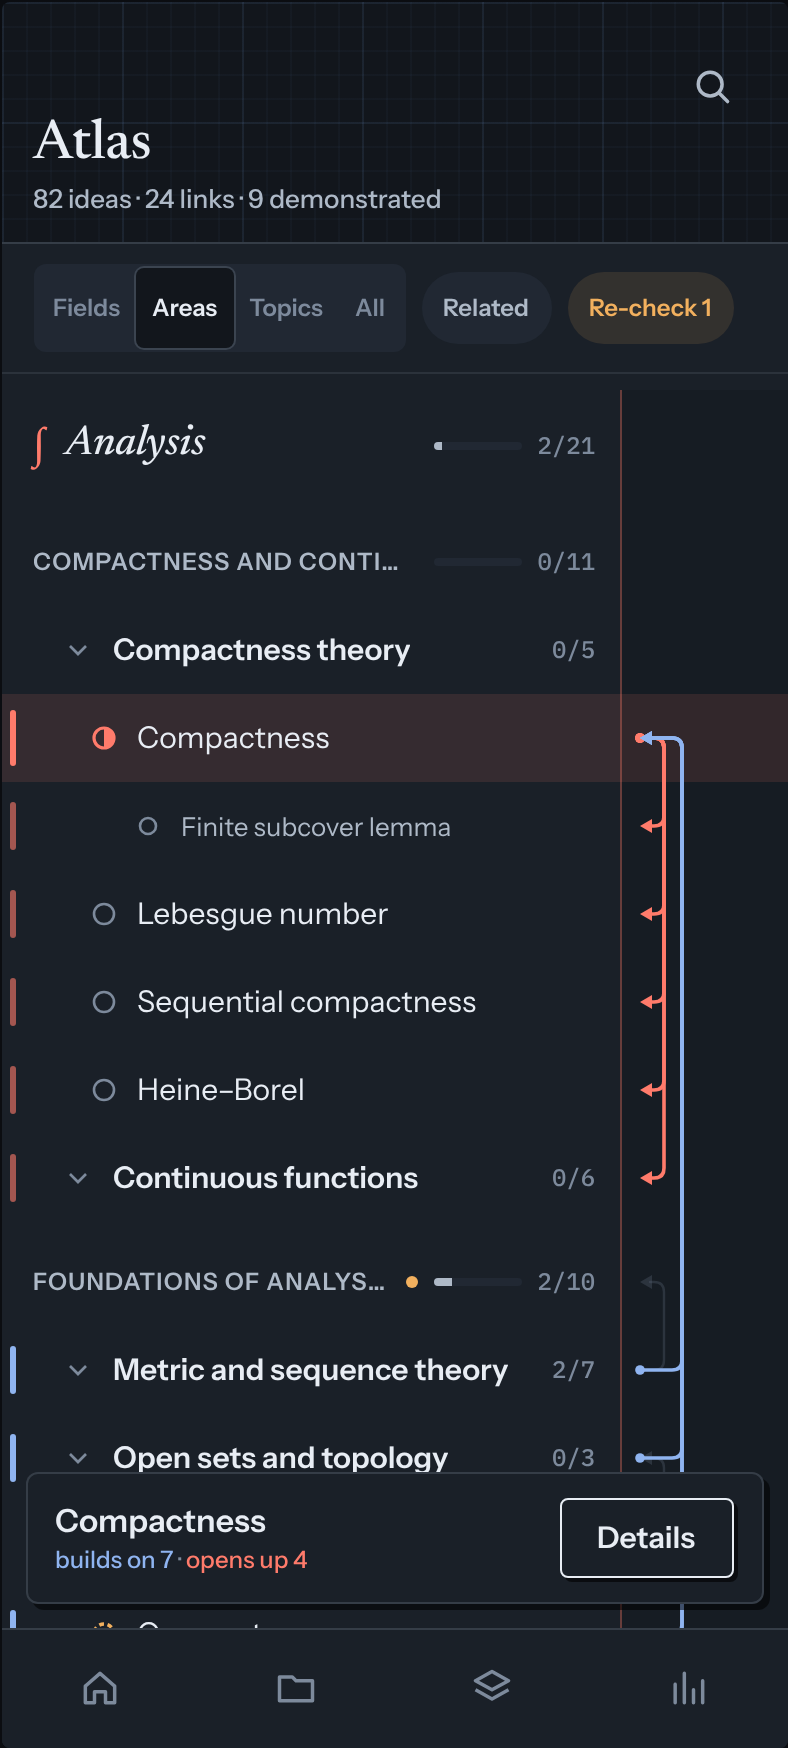
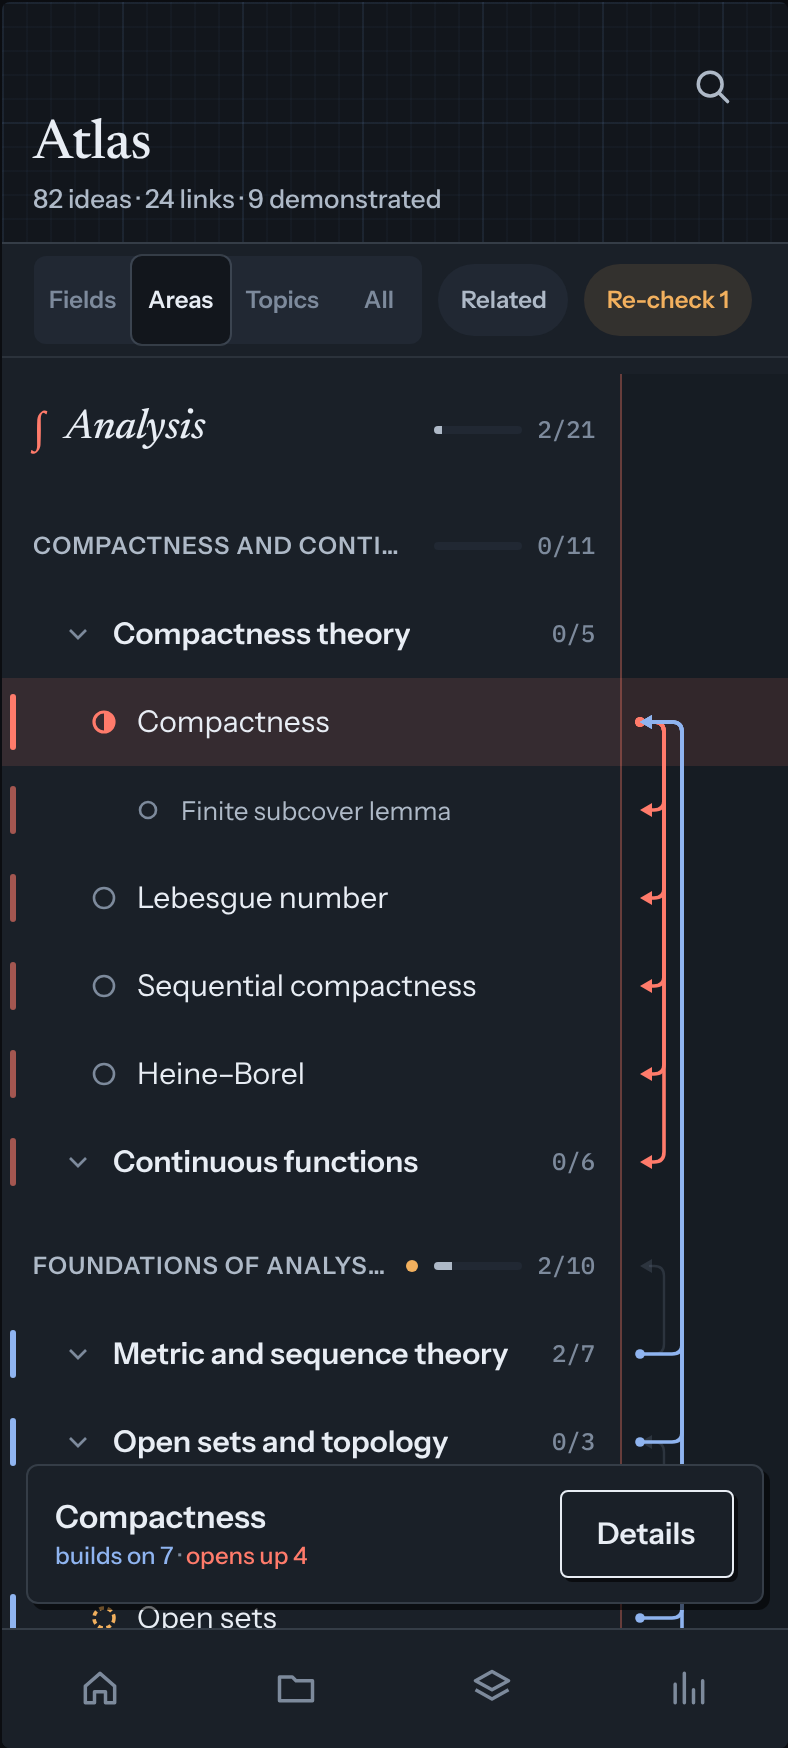
DOCS v4 look: unambiguous Mini Route geometry and 44px mockup controls
- Mini Route is one continuous 6px-high bar (one mark); stage segments
  >= 8px wide, 2px seams are not marks; far future stages merge; the
  current notch is the only other mark. QA-4 measures [data-mini-route]
  as one bar.
- Mockup: Details button 44px; toolbar segments 44px; pills drawn inside
  44px hit wrappers. Measured: min hit 44px, min segment 17.9px,
  min Route edge gap 8px, min text 12px, min Atlas row 44px.

Claude-Session: https://claude.ai/code/session_0172Sf9xwUy1G35PpYwED8Nj

diff --git a/docs/design/v4/mockups.html b/docs/design/v4/mockups.html
@@ -68,9 +68,10 @@ body{background:#0B0D11;font-family:var(--sans);color:var(--ink);padding:24px;di
 .rule{height:1px;background:var(--hair);margin:2px 0}
 .row{display:flex;align-items:center;gap:12px;padding:12px 0;border-bottom:1px solid var(--hair)}
 .row:last-child{border-bottom:none}
-.minibar{flex:1;display:flex;gap:2px;height:6px;position:relative}
-.minibar i{display:block;height:6px;border-radius:3px;background:var(--paper-2);overflow:hidden;position:relative}
-.minibar i b{position:absolute;inset:0 auto 0 0;background:var(--ink-2);border-radius:3px}
+.minibar{flex:1;display:flex;height:6px;position:relative;border-radius:3px;background:var(--paper-2)}
+.minibar i{display:block;height:6px;min-width:8px;overflow:hidden;position:relative;border-right:2px solid var(--paper)}
+.minibar i:first-child{border-radius:3px 0 0 3px}.minibar i:last-of-type{border-right:none;border-radius:0 3px 3px 0}
+.minibar i b{position:absolute;inset:0 auto 0 0;background:var(--ink-2)}
 .minibar .notch{position:absolute;top:-3px;width:2px;height:12px;background:var(--accent);border-radius:1px}
 .review{display:flex;align-items:center;gap:14px;padding:14px 16px}
 .big{font:500 30px/1 var(--display)}
@@ -83,10 +84,11 @@ body{background:#0B0D11;font-family:var(--sans);color:var(--ink);padding:24px;di
 .tab.on{color:var(--accent)}
 /* Atlas */
 .atlas{margin:0 -16px;background:var(--paper);border-top:1px solid var(--edge);position:relative}
-.tool{display:flex;gap:8px;align-items:center;padding:10px 16px;border-bottom:1px solid var(--hair)}
-.seg{display:flex;background:var(--paper-2);border-radius:6px;padding:2px}
-.seg span{font:600 12px var(--sans);color:var(--ink-3);padding:0 8px;height:40px;line-height:40px;border-radius:4px}
+.tool{display:flex;gap:8px;align-items:center;padding:6px 16px;border-bottom:1px solid var(--hair)}
+.seg{display:flex;background:var(--paper-2);border-radius:6px;padding:0}
+.seg span{font:600 12px var(--sans);color:var(--ink-3);padding:0 8px;height:44px;line-height:44px;border-radius:5px;min-width:44px;text-align:center}
 .seg span.on{background:var(--bg);color:var(--ink);box-shadow:0 0 0 1px var(--edge)}
+.hit{display:inline-flex;align-items:center;min-height:44px;min-width:44px}
 .toggle{white-space:nowrap;font:600 12px var(--sans);color:var(--ink-2);padding:0 11px;height:36px;line-height:36px;border-radius:999px;background:var(--paper-2)}
 .toggle.warn{color:var(--late);background:color-mix(in srgb,var(--late) 12%,transparent)}
 .tree{position:relative}
@@ -184,9 +186,9 @@ body{background:#0B0D11;font-family:var(--sans);color:var(--ink);padding:24px;di
  <div class="sec"><h2 class="t-section">Paths</h2><span class="link">All paths</span></div>
  <article class="paper" style="padding:4px 16px">
   <div class="row"><span class="glyph" style="width:28px;height:28px;font-size:17px">∫</span><div style="flex:1;min-width:0"><div style="display:flex;justify-content:space-between"><span class="t-title" style="font-size:15px">Real Analysis</span><span class="t-meta" style="color:var(--ink-3);font-variant-numeric:tabular-nums">3 of 36</span></div>
-   <div style="margin-top:8px" class="minibar" data-mini='[[8,3],[8,0],[8,0],[8,0],[4,0]]' data-cur="3"></div></div></div>
+   <div style="margin-top:8px" class="minibar" data-mini-route data-mini='[[8,3],[8,0],[8,0],[8,0],[4,0]]' data-cur="3"></div></div></div>
   <div class="row"><span class="glyph" style="width:28px;height:28px;font-size:17px">λ</span><div style="flex:1;min-width:0"><div style="display:flex;justify-content:space-between"><span class="t-title" style="font-size:15px">Linear Algebra</span><span class="t-meta" style="color:var(--ink-3);font-variant-numeric:tabular-nums">8 of 14</span></div>
-   <div style="margin-top:8px" class="minibar" data-mini='[[3,3],[3,3],[4,2],[4,0]]' data-cur="8"></div></div></div>
+   <div style="margin-top:8px" class="minibar" data-mini-route data-mini='[[3,3],[3,3],[4,2],[4,0]]' data-cur="8"></div></div></div>
  </article>
 </div></div>
 
@@ -196,10 +198,10 @@ body{background:#0B0D11;font-family:var(--sans);color:var(--ink);padding:24px;di
  <div class="hdr" style="padding-bottom:12px"><div><h1 class="t-display">Atlas</h1><p class="t-meta" style="margin-top:4px">82 ideas · 24 links · 9 demonstrated</p></div>
   <div class="icons"><span class="icon"><svg viewBox="0 0 24 24" fill="none" stroke="currentColor" stroke-width="1.9" stroke-linecap="round"><circle cx="11" cy="11" r="6.5"/><path d="M16 16l4.5 4.5"/></svg></span></div></div>
  <div class="atlas">
-  <div class="tool"><div class="seg"><span>Fields</span><span class="on">Areas</span><span>Topics</span><span>All</span></div><span class="toggle">Related</span><span class="toggle warn">Re-check 1</span></div>
+  <div class="tool"><div class="seg"><span>Fields</span><span class="on">Areas</span><span>Topics</span><span>All</span></div><span class="hit"><span class="toggle">Related</span></span><span class="hit"><span class="toggle warn">Re-check 1</span></span></div>
   <div class="tree" id="tree"></div>
  </div>
- <div class="paper peek"><div style="flex:1"><div class="t-title">Compactness</div><div class="t-foot" style="margin-top:2px"><span style="color:var(--link)">builds on 7</span> · <span style="color:var(--accent)">opens up 4</span></div></div><span class="btn" style="height:40px">Details</span></div>
+ <div class="paper peek"><div style="flex:1"><div class="t-title">Compactness</div><div class="t-foot" style="margin-top:2px"><span style="color:var(--link)">builds on 7</span> · <span style="color:var(--accent)">opens up 4</span></div></div><span class="btn" style="height:44px">Details</span></div>
  <div class="tabbar">
   <span class="tab"><svg viewBox="0 0 24 24" fill="none" stroke="currentColor" stroke-width="1.9" stroke-linejoin="round"><path d="M4 11l8-7 8 7v9h-5v-6H9v6H4z"/></svg></span>
   <span class="tab"><svg viewBox="0 0 24 24" fill="none" stroke="currentColor" stroke-width="1.9" stroke-linejoin="round"><path d="M3 6h7l2 2h9v11H3z"/></svg></span>
@@ -221,7 +223,7 @@ body{background:#0B0D11;font-family:var(--sans);color:var(--ink);padding:24px;di
  <article class="paper goal"><svg class="route" data-route='{"stages":[7,7,6,7,7,6,7,7,6,7,7,6,7,7,6],"done":[7,7,6,7,7,2,0,0,0,0,0,0,0,0,0],"cur":5,"curStation":2,"labels":[],"late":true}'></svg>
   <div class="nowline"><span class="t-meta"><b>CP37</b>Uniform continuity</span><span class="t-meta" style="color:var(--ink-3);font-variant-numeric:tabular-nums">36 of 100</span></div></article>
  <p class="t-foot" style="margin:14px 0 6px">Mini route (Paths rows, compact lists)</p>
- <article class="paper" style="padding:14px 16px"><div class="minibar" data-mini='[[7,7],[7,7],[6,6],[7,7],[7,7],[6,2],[7,0],[7,0],[6,0],[7,0],[7,0],[6,0],[7,0],[7,0],[6,0]]' data-cur="36"></div></article>
+ <article class="paper" style="padding:14px 16px"><div class="minibar" data-mini-route data-mini='[[7,7],[7,7],[6,6],[7,7],[7,7],[6,2],[7,0],[7,0],[6,0],[7,0],[7,0],[6,0],[7,0],[7,0],[6,0]]' data-cur="36"></div></article>
 </div></div>
 
 

diff --git a/docs/spec/v4-look.md b/docs/spec/v4-look.md
@@ -133,10 +133,13 @@ The Route is 64 px tall. The track sits at y = 24 and labels sit on a baseline a
     - ← and → do the same from the keyboard; Enter or a 44 px **Open** button opens the checkpoint sheet.
   - The Mini Route is not interactive: its row is the target.
 - **Now-line** under the Route: `CP4` (code style, accent), the title (Tex), and "3 of 36" right-aligned in `--ink-3`.
-- **Mini Route** for Paths rows, Today's "n more" list and the project switcher:
-  - one 6 px capsule per stage, 2 px gaps, filled by done; each segment is at least 8 px wide, and if they do not fit, neighbouring future stages merge (stress.md A2);
-  - a 2 × 12 px accent notch at the current checkpoint;
-  - never ticks.
+- **Mini Route** for Paths rows, Today's "n more" list and the project switcher (`[data-mini-route]`):
+  - **One continuous bar, one mark:** 6 px high, full row width, radius 3 px, on `--paper-2`.
+  - Stages are *segments inside* the bar, sized by checkpoint count and filled by done. Each segment is at least 8 px wide.
+  - Segments are divided by 2 px seams in the card colour. Seams are not marks and are not measured as gaps: the bar is measured as one mark.
+  - If segments cannot all be 8 px wide, neighbouring future stages merge into one segment (stress.md A2).
+  - The only other mark is the current notch (2 × 12 px, `--accent`), drawn at least 8 px clear of the bar's ends or else on them.
+  - No ticks, ever.
 - **Project page:** the same Route at 80 px, with every stage name shown (two lines allowed) and a legend listing only the states present.
 
 ### 3c. Delete
@@ -197,7 +200,7 @@ Owner decisions kept: a foldable outline, prerequisite links in a right-hand mar
    - one segmented control "Fields · Areas · Topics · All";
    - a "Related" toggle pill with a visible on state;
    - "Re-check n" as a `--late` pill, only when n > 0.
-   - Every toolbar control has a hit area of at least 44 × 44 px, without overlapping its neighbours. Pills may be drawn smaller inside it.
+   - Every toolbar control has a hit area of at least 44 × 44 px, without overlapping its neighbours. Pills may be drawn smaller inside it. The peek's **Details** button is 44 px tall.
    - Header: "Atlas" (display), then "82 ideas · 24 links · 9 demonstrated".
 7. **Details sheet:**
    - typeset title and path (#485), with tappable crumbs;
@@ -340,7 +343,7 @@ Add to `plan.md` §8 as "v4 look (owner, 31 Oct 13:08)". One PR per task (split 
 | LOOK-7 Review, cards, insights | LOOK-1 | `src/features/{review,review-run,review-done,cards,card,insights}/*`, `src/ui/charts/*` | §5, including the cards-list LaTeX bug and `plainMath` `\mathbb R`. |
 | LOOK-8 Approve and plan review | LOOK-4 | `src/features/{proposals,plan-proposal}/*` | §5 Approve, Plan proposal. |
 | LOOK-9 Settings and the rest | LOOK-1 | `src/features/{settings,sign-in,new-project}/*`, `src/app/*`, `vite.config.ts` | §5 Settings, Sign in, New project, Everywhere. |
-| QA-4 Visual acceptance | LOOK-1 … 9 | `scripts/review-shots.mjs`, `.github/workflows/review-shots.yml`, `docs/acceptance/` | Fix `review-shots.mjs`: it still requires 15 themes and throws on today's two. Capture **every** route (list in `docs/design/v4/capture-routes.md`) × day/night × default/S. Compare with `docs/design/v4/` and file one issue per deviation. **Hard gate, not just images:** re-run `tests/e2e/stress.spec.ts` on every route in both profiles and both worlds at 360 and 390. It must pass: marks ≥ 8 px apart, tap targets ≥ 44 px, text ≥ 12 px, maths ≥ 16 px, no horizontal overflow, < 1,500 DOM nodes per screen, first render < 1.5 s at 4× CPU, and request count and transfer size within the E1 budgets (stress.md §3, QA-3). A beautiful screenshot cannot pass QA-4 on its own. |
+| QA-4 Visual acceptance | LOOK-1 … 9 | `scripts/review-shots.mjs`, `.github/workflows/review-shots.yml`, `docs/acceptance/` | Fix `review-shots.mjs`: it still requires 15 themes and throws on today's two. Measure each Mini Route as one bar (`[data-mini-route]`): every segment ≥ 8 px wide, seams excluded from the mark-spacing check. Capture **every** route (list in `docs/design/v4/capture-routes.md`) × day/night × default/S. Compare with `docs/design/v4/` and file one issue per deviation. **Hard gate, not just images:** re-run `tests/e2e/stress.spec.ts` on every route in both profiles and both worlds at 360 and 390. It must pass: marks ≥ 8 px apart, tap targets ≥ 44 px, text ≥ 12 px, maths ≥ 16 px, no horizontal overflow, < 1,500 DOM nodes per screen, first render < 1.5 s at 4× CPU, and request count and transfer size within the E1 budgets (stress.md §3, QA-3). A beautiful screenshot cannot pass QA-4 on its own. |
 
 **Start now in parallel:** LOOK-0, then LOOK-1, LOOK-3 and LOOK-4 (the three the owner sees first). The two bugs in LOOK-6 and LOOK-7 (days-late mismatch, cards-list LaTeX) may land early as `FIX` PRs.
 
